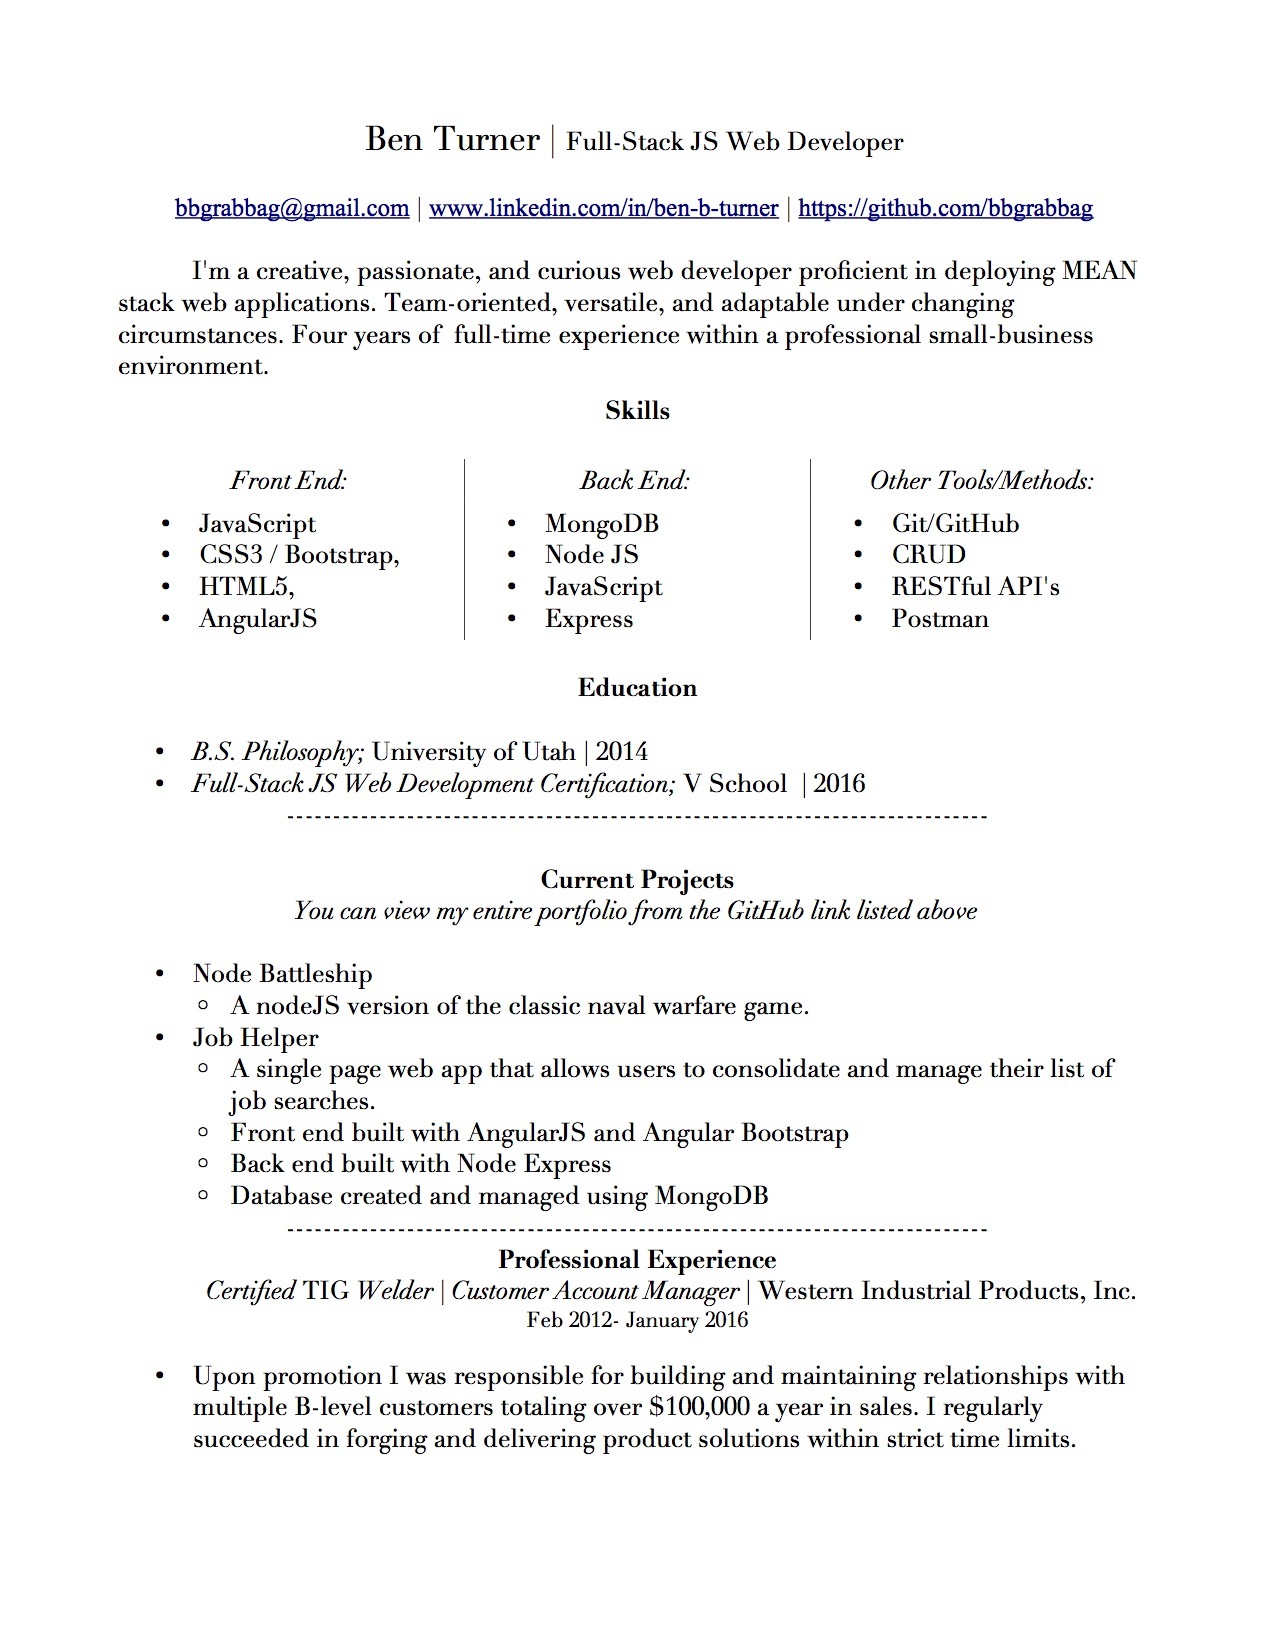
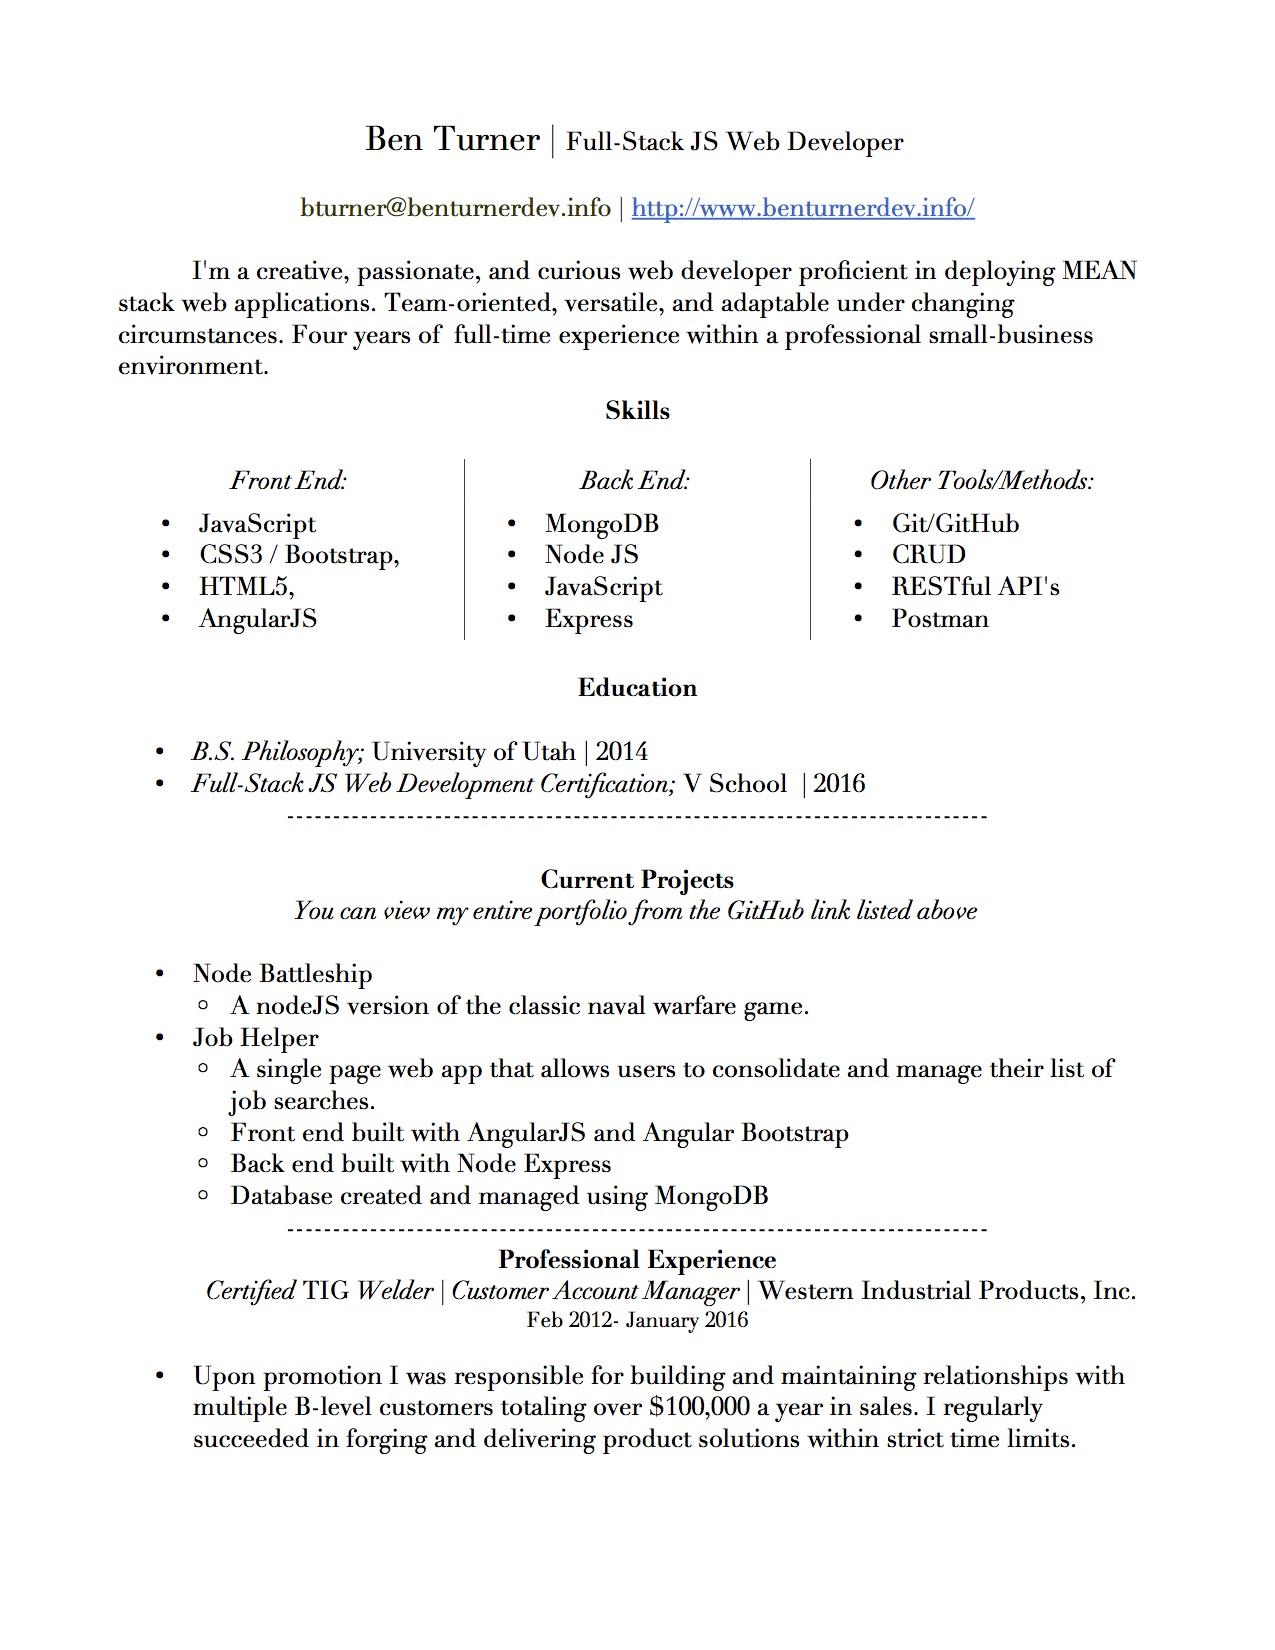
updated email info

Changed region(s): [[0.1529, 0.1236, 0.8565, 0.1545]]

diff --git a/index.html b/index.html
@@ -27,7 +27,7 @@
                     </div>
 
                     <div id="media-links">
-                        <p id="email">bbgrabbag@gmail.com</p>
+                        <p id="email">bturner@benturnerdev.info</p>
                         <p class="breaks">|</p>
                         <a target="_blank" href="https://github.com/bbgrabbag "><i class ="fa fa-github" id="git-hub"></i></a>
                         <p class="breaks">|</p>
